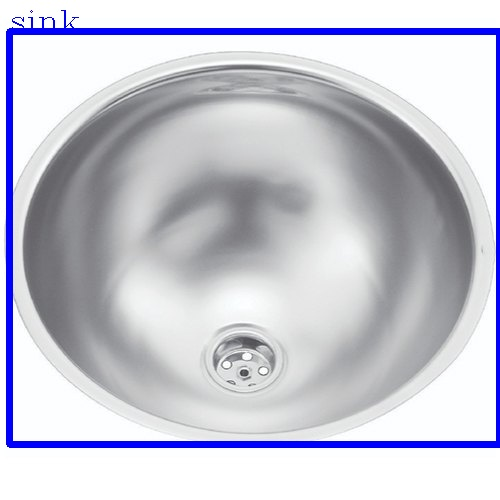
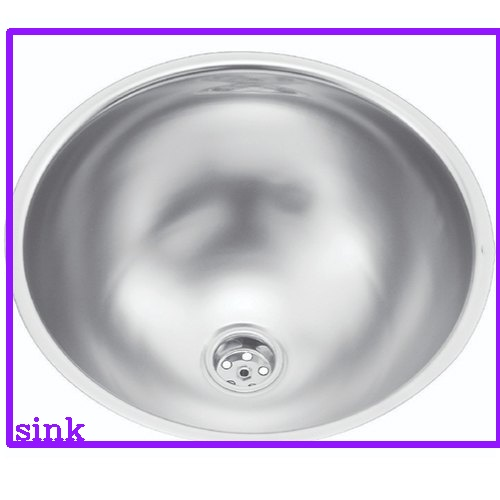
improved bounding box drawer

Changed region(s): [[0.0, 0.03, 1.0, 0.9]]

diff --git a/bounding-box-drawer/main.py b/bounding-box-drawer/main.py
@@ -1,26 +1,33 @@
 import pathlib
 
 import cv2
+import os
 
 from coords_transformator import Coords_Transformator
 from file_handler import FileHandler
+
+IMAGE_PATH = './../test-images/images/'
+PATH_TO_IMAGES = pathlib.Path(IMAGE_PATH)
 
 IMAGE_RESULTS_PATH = './../test-images/results/'
 PATH_TO_PREDICTION_RESULTS = pathlib.Path(IMAGE_RESULTS_PATH)
 PREDICTION_RESULT_PATHS = sorted(list(PATH_TO_PREDICTION_RESULTS.glob("*.json")))
 
-LABEL_COLOR = (255, 0, 0)
-RECT_COLOR = (255, 0, 0)
+LABEL_COLOR = (255, 20, 147)
+RECT_COLOR = (255, 20, 147)
 RECT_BORDER_WIDTH = 5
-LABEL_FONT_WIDTH = 1
-MIN_CONFIDENCE_TO_PRINT = 0.75
+LABEL_FONT_WIDTH = 2
+MIN_CONFIDENCE_TO_PRINT = 0.5
 
 if __name__ == '__main__':
     for result_path in PREDICTION_RESULT_PATHS:
         model_name = FileHandler.get_file_from_path_wo_ext(result_path)
 
         # delete result directory
-        # os.remove(PATH_TO_PREDICTION_RESULTS.joinpath(model_name + '/*'))
+        existing_files = os.listdir(PATH_TO_IMAGES.joinpath(model_name))
+        for f in existing_files:
+            os.remove(os.path.join(PATH_TO_IMAGES.joinpath(model_name), f))
+
         prediction_data = FileHandler.readfile(result_path)
         for prediction in prediction_data:
             img_path = prediction["filename"]
@@ -40,7 +47,9 @@ if __name__ == '__main__':
                     max_tupel = (int(coords['xmax']), int(coords['ymax']))
 
                     cv_image = cv2.rectangle(cv_image, min_tupel, max_tupel, RECT_COLOR, RECT_BORDER_WIDTH)
-                    cv_image = cv2.putText(cv_image, prediction_object["name"], min_tupel, cv2.FONT_HERSHEY_COMPLEX,1, LABEL_COLOR, LABEL_FONT_WIDTH)
+                    cv_image = cv2.putText(cv_image, prediction_object["name"],
+                                           (min_tupel[0] + RECT_BORDER_WIDTH, max_tupel[1] - RECT_BORDER_WIDTH),
+                                           cv2.FONT_HERSHEY_COMPLEX, 1, LABEL_COLOR, LABEL_FONT_WIDTH)
 
             cv2.imwrite(
                 FileHandler.add_suffix_and_sub_directory(img_path, model_name, '--bounding-boxes'),

diff --git a/draw-bounding-boxes-on-images/main.py b/draw-bounding-boxes-on-images/main.py
@@ -30,7 +30,7 @@ if __name__ == '__main__':
                 print(min_tupel, max_tupel)
 
                 cv_image = cv2.rectangle(cv_image, min_tupel, max_tupel, (0, 255, 0))
-                cv_image = cv2.putText(cv_image, prediction_object["name"], min_tupel, cv2.FONT_HERSHEY_COMPLEX, 0.5,
+                cv_image = cv2.putText(cv_image, prediction_object["name"], max_tupel, cv2.FONT_HERSHEY_COMPLEX, 0.5,
                                        (0, 0, 0), 1)
 
             cv2.imshow("Show", cv_image)
